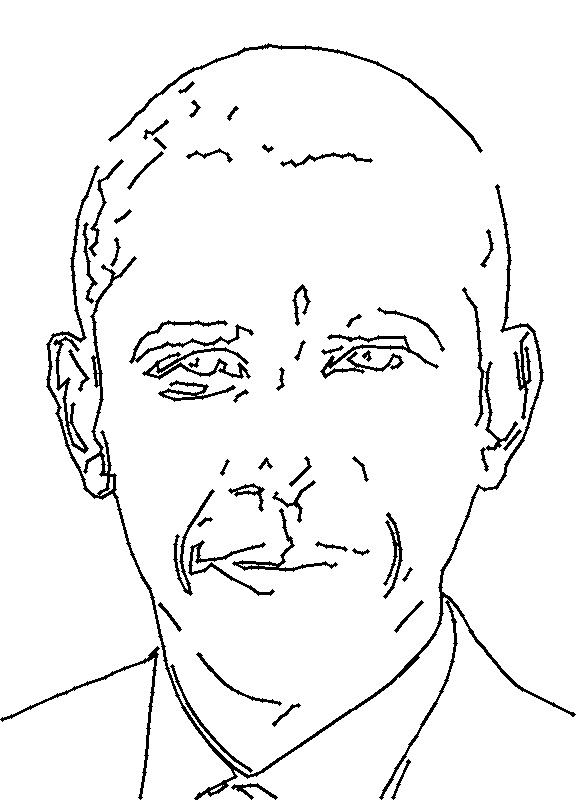
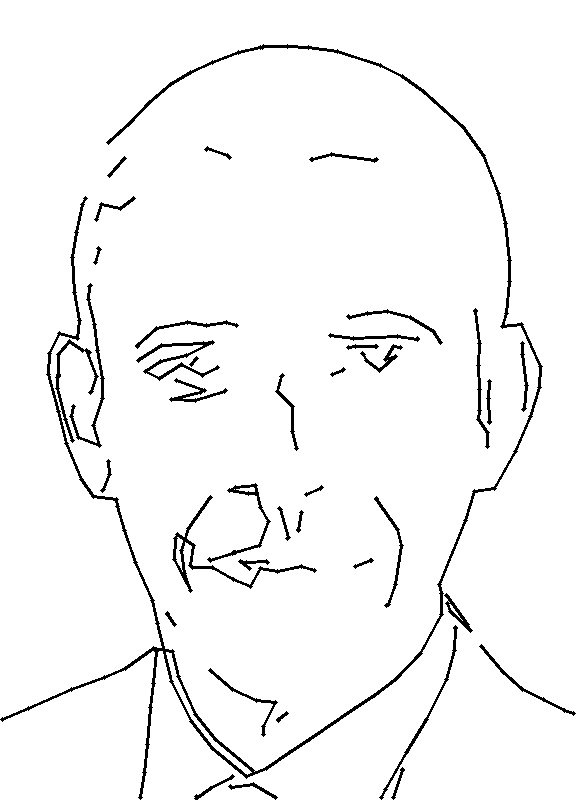
no more square

diff --git a/full_face_processing.py b/full_face_processing.py
@@ -1,5 +1,8 @@
 from os import unlink
-from cv2 import cv2
+try:
+    from cv2 import cv2
+except:
+    import cv2
 import numpy as np
 import random as rd
 import copy
@@ -596,7 +599,7 @@ def process_combo_raw(filename):
 
 if __name__ == "__main__":
 
-    filename = "C:/Users/Samir/OneDrive/Documents/Drawing Bot/GantryGame3.0/GantryGame3.0/small_obama.jpg"
+    filename = "small_obama.jpg"
 
     segments= process_combo_raw(filename)
     # segments = process_shading_raw(filename)

diff --git a/posterize.py b/posterize.py
@@ -224,8 +224,8 @@ def get_spinny(im, n, density = 30, theta = None, doin = 'doin your mom doin doi
                 if poster[y][x] <= quant:
                     if line[y][x] == 255:
                         edge[y][x] = 255
-        # cv2.imshow("edges", edge)
-        # cv2.waitKey(1)
+        cv2.imshow("edges", edge)
+        cv2.waitKey(0)
         edges.append(edge)
         # cv2.imshow("eouoeuoeu", edge)
         # cv2.waitKey(0)    
